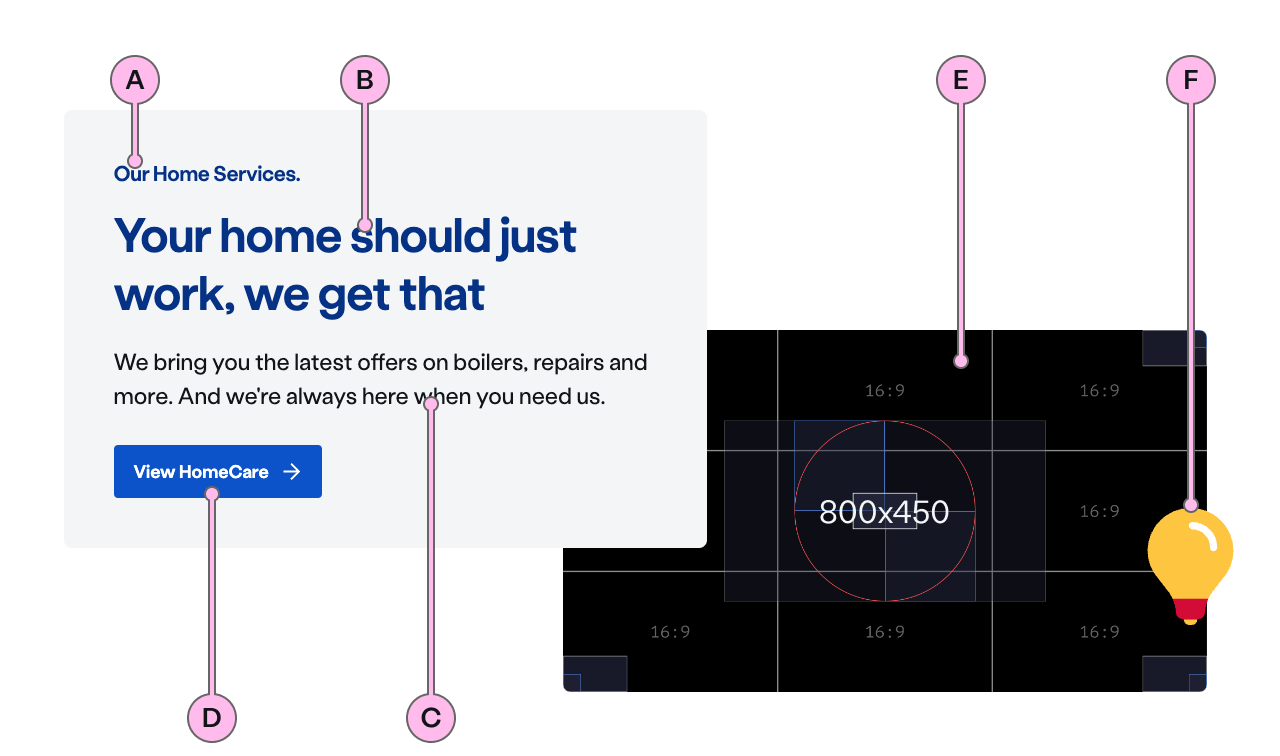
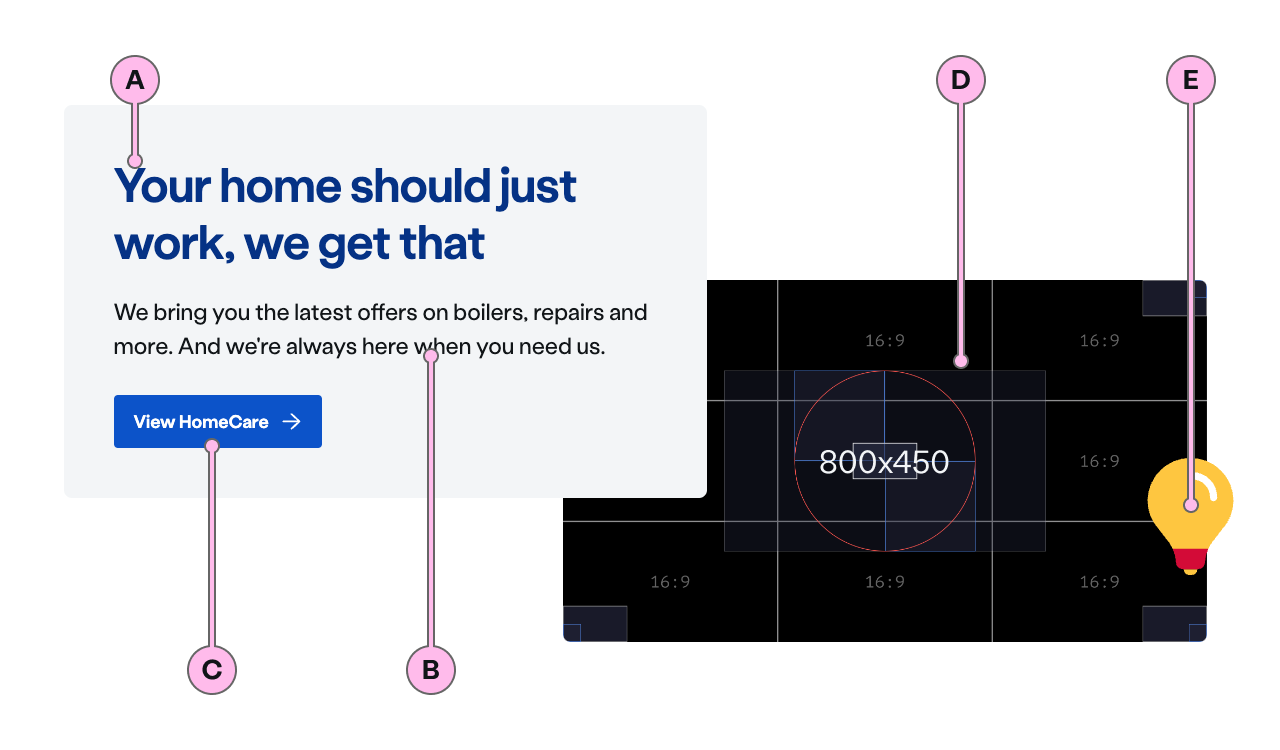
Updated diagrams and content to remove subheads

diff --git a/docs/components/ns-lockup.md b/docs/components/ns-lockup.md
@@ -19,12 +19,11 @@ We use lockups to engage customers, in particular to promote a key product or se
 
 | Key | Field type | Guidelines |
 | :--- | :--- | :--- |
-| A | Sub-heading | Sub-headings are used to indicate the primary section or to reinforce a brand message. Short and simple words tend to work better and it is recommended to keep the length between 1 and 5 words. Include a full stop at the end of the sub-heading. |
-| B | Heading | The recommended length is between 4 and 12 words, not exceeding 50 characters in total. Headings contain light and bold font weight to highlight key messaging.  |
-| C | Content | `ns-lockup` can accommodate multiple paragraph slots. However, be mindful of keeping it concise. Our guidance is a maximum of 2 short paragraphs, each with no more than 3 lines each. Can contain bold copy `<b>`, inline links `<a>`,  lists `<ul>` `<ol>`, and a caveat at the end of the relevant paragraph if required `<a href="#caveat">1</a>`. |
-| D | CTA | Keep the text ‘short, relevant, and actionable’. It should not exceed more than 24 characters. |
-| E | Image | There is a choice between 3 image sizes - the first has an aspect ratio of 16:9, the dimensions should be 800 x 450px, the second has an aspect ratio of 4:3, the dimensions should be 800 x 600px, and the third has an aspect ratio of 1:1, the dimensions should be 800 x 800px. Both versions should be jpg file types, and the file size should be no more than 100kb. To see which image you can use - please see the [Image guidance section](#image-guidance) below. Don't use imagery with white backgrounds. Please make sure you work with a designer when selecting any imagery for the `ns-lockup`. |
-| F | Decoration | Use this optional illustration to support and highlight the content. The illustration should relate to the product or service you are talking about. The [specification table](#specification) has a list of options. |
+| A | Heading | The recommended length is between 4 and 12 words, not exceeding 50 characters in total. |
+| B | Content | `ns-lockup` can accommodate multiple paragraph slots. However, be mindful of keeping it concise. Our guidance is a maximum of 2 short paragraphs, each with no more than 3 lines each. Can contain bold copy `<b>`, inline links `<a>`,  lists `<ul>` `<ol>`, and a caveat at the end of the relevant paragraph if required `<a href="#caveat">1</a>`. |
+| C | CTA | Keep the text ‘short, relevant, and actionable’. It should not exceed more than 24 characters. |
+| D | Image | There is a choice between 3 image sizes - the first has an aspect ratio of 16:9, the dimensions should be 800 x 450px, the second has an aspect ratio of 4:3, the dimensions should be 800 x 600px, and the third has an aspect ratio of 1:1, the dimensions should be 800 x 800px. Both versions should be jpg file types, and the file size should be no more than 100kb. To see which image you can use - please see the [Image guidance section](#image-guidance) below. Don't use imagery with white backgrounds. Please make sure you work with a designer when selecting any imagery for the `ns-lockup`. |
+| E | Decoration | Use this optional illustration to support and highlight the content. The illustration should relate to the product or service you are talking about. The [specification table](#specification) has a list of options. |
 
 ### Image guidance
 
@@ -41,8 +40,8 @@ We use lockups to engage customers, in particular to promote a key product or se
 | :--- | :--- |
 | Use the key message in the heading | Include more than one CTA |
 | Keep the heading length to 4-12 words | Exceed more than two paragraphs of 3 lines each |
-| Keep sub-heading length between 1-5 words | Use images with a white background |
-| Optimise the lockup image (see [Optimise your images](https://nucleus.design/docs/foundations/photography#optimise-your-images)) | Use images that have any important part obscured by the overlap |
+| Consider the focal point of the image at across different viewports | Use images that have any important part obscured by the overlap |
+| Optimise the lockup image (see [Optimise your images](https://nucleus.design/docs/foundations/photography#optimise-your-images)) | Use images with a white background |
 
 ### Considerations of best practices
 
@@ -79,9 +78,7 @@ We use lockups to engage customers, in particular to promote a key product or se
 ### Heading
 
 * Should be a `h2` tag.
-* The sub-heading is part of the heading to allow screen readers to read the heading properly.
-* Sub-heading is a `<span>` tag with a `h5` class.
-* Main heading is a `<span>` tag with a `h1` class.
+* Heading uses an `h1` class.
 
 ### Video
 
